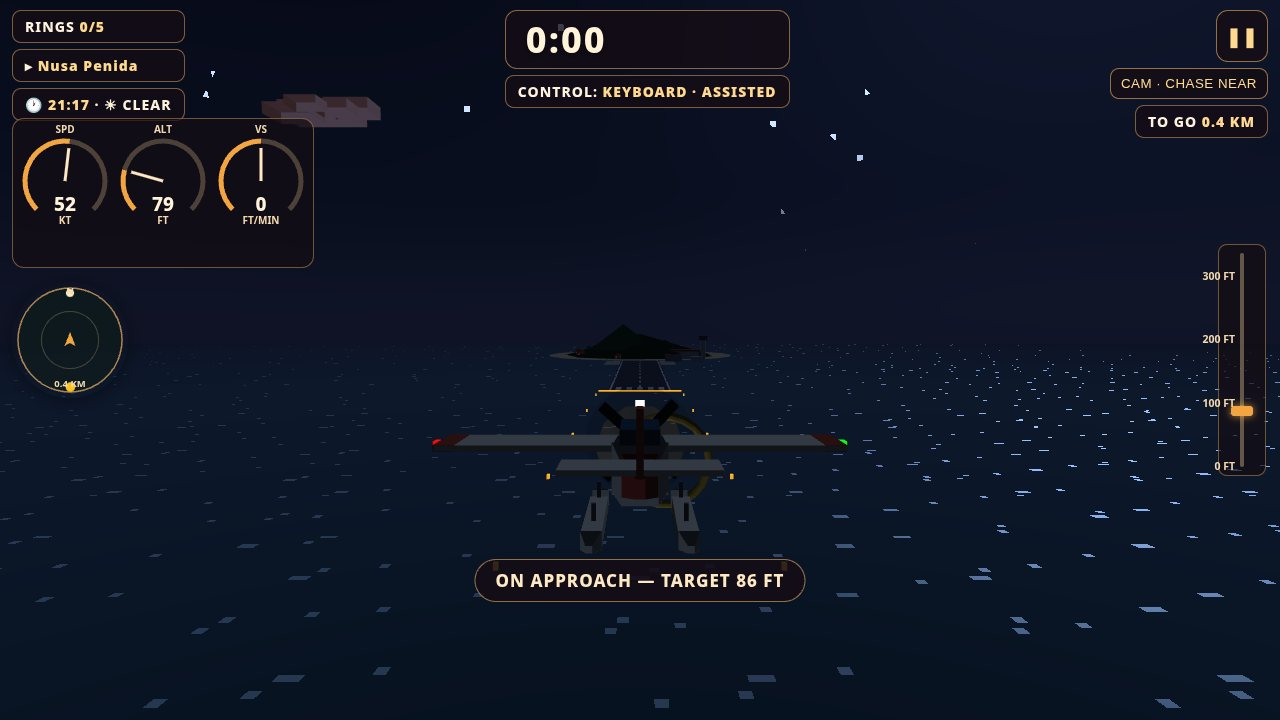
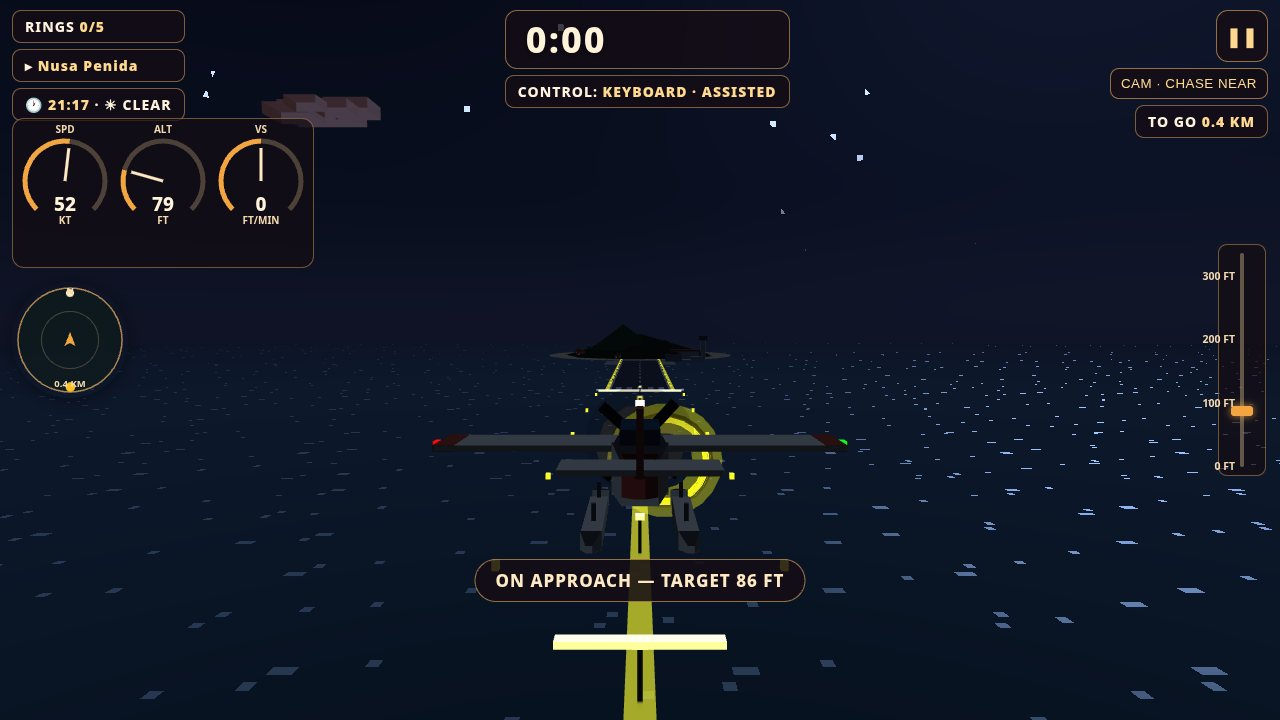
Fix round 2 (gate QA): live board clock, block weather, night visibility
F1: the board clock face is now refreshed as the clock advances on
menus (it was baked into the DOM at render and never moved).
F2: weather is drawn per (day, 4-hour block) instead of per hour, so a
forecast holds for a whole leg; blends happen only at block edges.
F3: night ring glow/core overlays scale with distance, so far rings
stay readable as rings at 1 KM; next ring still brightest and pulsing.
F4: centreline approach light system (elevated heads + crossbar over
the water) and brighter edge/threshold lighting, so the strip reads
as lit from approach distance at night.
F5: ALL RINGS DONE can no longer show unless every ring was threaded
(a water-taxi run now guides for the strip instead).
Screenshots regenerated (night shot shows the lit approach).

diff --git a/game/src/scene3d.js b/game/src/scene3d.js
@@ -6,6 +6,30 @@ import { Builder, M4 } from './engine3d.js';
 import { mulberry32, clamp, lerp } from './util.js';
 
 const CREAM = [0.96, 0.86, 0.64], RED = [0.80, 0.22, 0.15], TEAL = [0.09, 0.26, 0.31];
+
+// How dark the world is right now, 0 (full day) to 1 (deep night), read
+// off the phase's ambient ceiling. The clock's palettes are untouched —
+// this only measures them, and every night treatment (ring glow, strip
+// light spill) scales with it, so dusk fades the lamps in gradually.
+export function darknessOf(env) {
+  if (!env || !env.ambHi) return 0;
+  const lum = 0.299 * env.ambHi[0] + 0.587 * env.ambHi[1] + 0.114 * env.ambHi[2];
+  return clamp((0.42 - lum) / 0.30, 0, 1);
+}
+
+// Night ring overlays grow with distance: a fixed-size halo at 1 KM is a
+// sub-pixel hairline no matter how bright, so the glow (and, more gently,
+// the hot core) scale up with range to hold a minimum screen presence —
+// the course reads as a chain of lights at night. At approach range the
+// scale is 1 and the ring looks exactly as built.
+export function nightGlowM(r, depth) {
+  const s = clamp(depth / 380, 1, 3);
+  return M4.compose(r.x, r.altM, -r.dist, Math.PI / 2, 0, 0, s);
+}
+export function nightCoreM(r, depth) {
+  const s = 1 + (clamp(depth / 380, 1, 3) - 1) * 0.45;
+  return M4.compose(r.x, r.altM, -r.dist, Math.PI / 2, 0, 0, s);
+}
 const SAND = [0.93, 0.78, 0.52], GREEN = [0.24, 0.48, 0.26], GREEN2 = [0.16, 0.38, 0.22];
 const TRUNK = [0.42, 0.30, 0.18], ROCK = [0.45, 0.38, 0.36], GOLD = [1.0, 0.72, 0.18];
 const PAST = [0.35, 0.95, 0.55], DARK = [0.04, 0.07, 0.09], FOAM = [0.98, 0.95, 0.88];
@@ -106,7 +130,19 @@ export function buildRingMeshes(R) {
   // past 1.0 so it pops against sky and fog) — depth order reads at a glance:
   // bright means next, gold means later, green means done.
   const next = new Builder(); next.torus(0, 0, 0, 4.4, 0.46, 22, 10, [1.45, 1.08, 0.38]);
-  return { gold: R.makeMesh(gold), past: R.makeMesh(past), next: R.makeMesh(next) };
+  // Night treatment, drawn only as darkness falls (the scene scales their
+  // alpha with it; at day they are never drawn and the course looks exactly
+  // as it always did). A fat translucent halo torus gives each ring a glow
+  // the fog cannot eat, and hot cores — colours far past 1.0, so the lit
+  // shader's emissive term carries them — replace the dim day shading that
+  // left night rings as small dark-orange circles against a black sky.
+  const glow = new Builder(); glow.torus(0, 0, 0, 4.4, 1.55, 22, 10, [2.0, 1.45, 0.42]);
+  const goldNight = new Builder(); goldNight.torus(0, 0, 0, 4.4, 0.46, 22, 10, [2.15, 1.55, 0.48]);
+  const nextNight = new Builder(); nextNight.torus(0, 0, 0, 4.4, 0.52, 22, 10, [2.9, 2.15, 0.85]);
+  return {
+    gold: R.makeMesh(gold), past: R.makeMesh(past), next: R.makeMesh(next),
+    glow: R.makeMesh(glow), goldNight: R.makeMesh(goldNight), nextNight: R.makeMesh(nextNight),
+  };
 }
 
 // The destination airport: a marked runway deck on flat ground at the
@@ -118,18 +154,50 @@ export function buildRingMeshes(R) {
 export const STRIP_LAYOUT = { width: 27, length: 200, centreZ: 89, topY: 0.02 };
 export function buildStrip(R) {
   const b = new Builder();
-  const DECK = [0.22, 0.23, 0.27], PAINT = [0.95, 0.93, 0.86], LAMP = [1.5, 1.25, 0.7];
+  const DECK = [0.22, 0.23, 0.27], PAINT = [0.95, 0.93, 0.86], LAMP = [2.3, 1.85, 0.9];
   b.box(0, -0.14, 0, 48, 0.28, 232, [0.76, 0.68, 0.52]); // sand apron: the airfield reads from a kilometre out
   b.box(0, -0.26, 0, STRIP_LAYOUT.width, 0.56, STRIP_LAYOUT.length, DECK);
   b.box(-12.6, 0.05, 0, 0.9, 0.07, 196, PAINT);
   b.box(12.6, 0.05, 0, 0.9, 0.07, 196, PAINT);
   for (let i = -2; i <= 2; i++) b.box(i * 4.6, 0.05, 92, 2.4, 0.07, 10, PAINT); // threshold bars
   for (let z = -84; z <= 84; z += 21) b.box(0, 0.05, z, 0.8, 0.07, 9, PAINT); // centreline
-  for (let z = 118; z <= 286; z += 42) { // approach lights on posts
-    b.box(-17, 0.45, z, 0.55, 0.9, 0.55, LAMP);
-    b.box(17, 0.45, z, 0.55, 0.9, 0.55, LAMP);
+  // Edge lights: a lamp every 14 m down both edges, colours well past 1.0
+  // so at night the emissive term makes the strip read as LIT from
+  // approach distance — the first version had only paint and two rows of
+  // small approach posts, and a real night landing saw a plain grey deck.
+  for (let z = -98; z <= 98; z += 14) {
+    b.box(-13.6, 0.32, z, 0.72, 0.5, 0.72, LAMP);
+    b.box(13.6, 0.32, z, 0.72, 0.5, 0.72, LAMP);
   }
-  b.box(0, 0.35, 104, 34, 0.7, 0.8, LAMP); // threshold light bar
+  for (let z = 118; z <= 286; z += 42) { // approach lights on posts
+    b.box(-17, 0.55, z, 0.85, 1.1, 0.85, LAMP);
+    b.box(17, 0.55, z, 0.85, 1.1, 0.85, LAMP);
+  }
+  // Centreline approach light system: a row of elevated heads over the
+  // water running 200 m out from the threshold, ending in a crossbar.
+  // The flat strip all but vanishes at grazing angles on a real night
+  // approach — a line of lights standing 5 m over the sea does not, and
+  // it points straight at the threshold the way a real ALS does.
+  for (let z = 132; z <= 312; z += 30) {
+    b.box(0, 2.5, z, 0.4, 5, 0.4, [0.25, 0.25, 0.28]);
+    b.box(0, 5.1, z, 1.15, 0.6, 1.15, [2.6, 2.2, 1.2]);
+  }
+  b.box(0, 5.1, 312, 13, 0.6, 1.1, [2.6, 2.2, 1.2]); // the crossbar
+  b.box(0, 0.42, 104, 34, 0.85, 0.9, [2.5, 2.3, 1.3]); // threshold light bar
+  return R.makeMesh(b);
+}
+
+// The strip's light spill: translucent glow ribbons hovering over the edge
+// light rows and a halo bar over the threshold. A separate mesh because
+// the scene draws it with alpha scaled by darkness — invisible by day,
+// unmistakable on a night approach.
+export function buildStripGlow(R) {
+  const b = new Builder();
+  const GLOW = [2.4, 1.9, 0.85];
+  b.box(-13.6, 0.62, 0, 1.7, 0.16, 200, GLOW);
+  b.box(13.6, 0.62, 0, 1.7, 0.16, 200, GLOW);
+  b.box(0, 0.8, 104, 36, 0.28, 2.4, [2.4, 2.3, 1.4]); // threshold halo
+  b.box(0, 0.5, 222, 2.4, 0.14, 200, GLOW); // centreline spill under the ALS
   return R.makeMesh(b);
 }
 
@@ -314,7 +382,12 @@ export function createScene(R, assets) {
     drawLane(R, assets, -st.legDist + 150);
     // The strip herself: a deck on the destination shore, threshold facing
     // the plane, growing out of the haze from a kilometre out.
-    R.draw(assets.strip, M4.compose(0, 0, -st.legDist + STRIP_LAYOUT.centreZ, 0, 0, 0));
+    const stripM = M4.compose(0, 0, -st.legDist + STRIP_LAYOUT.centreZ, 0, 0, 0);
+    R.draw(assets.strip, stripM);
+    // Her light spill fades in with darkness: by night the lit edges and
+    // the threshold halo are the approach's main landmark.
+    const dark = darknessOf(st.env);
+    if (assets.stripGlow && dark > 0.02) R.draw(assets.stripGlow, stripM, 0.40 * dark);
     // Airport buildings at the runway's far end (and a twin behind the start).
     R.draw(assets.airport, M4.compose(0, 0, -st.legDist - 14, 0, 0, 0));
     R.draw(assets.airport, M4.compose(0, 0, 128, 0, Math.PI, 0, 0.85));
@@ -325,7 +398,11 @@ export function createScene(R, assets) {
       R.draw(assets.cloud, M4.compose(c.x, c.y, c.z, 0, 0, 0, c.s), 0.88);
     }
     // Rings: the next one bright, the rest gold (fog thins them with range),
-    // green once threaded, ghosts once missed.
+    // green once threaded, ghosts once missed. As darkness falls each live
+    // ring gains its runway-light treatment — a glow halo whose strength
+    // scales with the dark, and a hot emissive core; the NEXT ring burns
+    // brightest and pulses gently, so the course reads at night the way
+    // the strip does. By day (dark = 0) none of this is drawn at all.
     const nextRing = st.rings.find(r => !r.passed && !r.missed);
     for (const r of st.rings) {
       const dz = -r.dist - pz;
@@ -333,8 +410,20 @@ export function createScene(R, assets) {
       const m = M4.compose(r.x, r.altM, -r.dist, Math.PI / 2, 0, 0, r.passed ? 1 : 1 + 0.05 * Math.sin(st.time * 3));
       if (r.passed) R.draw(assets.rings.past, m);
       else if (r.missed) R.draw(assets.rings.gold, m, 0.3);
-      else if (r === nextRing) R.draw(assets.rings.next, m);
-      else R.draw(assets.rings.gold, m);
+      else if (r === nextRing) {
+        R.draw(assets.rings.next, m);
+        if (dark > 0.02) {
+          const pulse = 0.85 + 0.15 * Math.sin(st.time * 3);
+          R.draw(assets.rings.glow, nightGlowM(r, -dz), (0.14 + 0.30 * pulse) * dark);
+          R.draw(assets.rings.nextNight, m, dark);
+        }
+      } else {
+        R.draw(assets.rings.gold, m);
+        if (dark > 0.02) {
+          R.draw(assets.rings.glow, nightGlowM(r, -dz), 0.22 * dark);
+          R.draw(assets.rings.goldNight, nightCoreM(r, -dz), 0.95 * dark);
+        }
+      }
     }
     // Ring-pass flashes: a torus blooming outward where the plane crossed.
     for (const fx of st.fx || []) {

diff --git a/game/src/clock.js b/game/src/clock.js
@@ -2,9 +2,9 @@
 // Time runs compressed — one game hour per GAME_HOUR_SECONDS of real play —
 // and everything the sky does is a smooth function of the game hour: sun and
 // moon position, sky gradient, fog, sea tone, starlight. Weather is a
-// separate deterministic table over (campaign day, hour): the same day at
-// the same hour always brings the same sky, so the morning board's forecast
-// is a promise the flight keeps.
+// separate deterministic table over (campaign day, 4-hour block): a block
+// of hours shares one sky, so a day has weather character that lasts and
+// the morning board's forecast is a promise a whole leg can fly inside.
 import { mulberry32, clamp, lerp } from './util.js';
 
 export const GAME_HOUR_SECONDS = 30; // real seconds per game hour (a day ≈ 12 min)
@@ -145,8 +145,10 @@ export function phaseAt(hour) {
   return out;
 }
 
-// ---- weather: a deterministic table over (day, hour) ----
+// ---- weather: a deterministic table over (day, 4-hour block) ----
 export const WEATHERS = ['clear', 'overcast', 'rain', 'storm'];
+export const BLOCK_HOURS = 4; // one weather per block: 00–04, 04–08, …, 20–24
+export const blockOfHour = hourFloat => Math.floor((((hourFloat % 24) + 24) % 24) / BLOCK_HOURS);
 export const WEATHER_PARAMS = {
   // fogMul thickens the phase fog; windMul scales the season wind; rain is
   // the streak layer's strength; grey desaturates the sky toward gloom.
@@ -156,28 +158,38 @@ export const WEATHER_PARAMS = {
   storm:    { fogMul: 2.20, windMul: 2.2, rain: 1.00, grey: 0.55 },
 };
 
-// The weather of one whole hour of one campaign day. Pure and seeded: the
-// board reads it to print the forecast, the flight reads it to keep it.
-export function weatherAtHour(day, hourInt) {
-  const hi = ((Math.floor(hourInt) % 24) + 24) % 24;
-  const r = mulberry32((Math.floor(day) * 1000003 + hi * 7919 + 17) >>> 0)();
+// The weather of one whole 4-hour block of one campaign day. Pure and
+// seeded from the same hash family as the old hourly table: the board
+// reads it to print the forecast, the flight reads it to keep it.
+export function weatherAtBlock(day, blockIdx) {
+  const bi = ((Math.floor(blockIdx) % 6) + 6) % 6;
+  const r = mulberry32((Math.floor(day) * 1000003 + bi * 7919 + 17) >>> 0)();
   if (r < 0.42) return 'clear';
   if (r < 0.65) return 'overcast';
   if (r < 0.85) return 'rain';
   return 'storm';
 }
 
-// Blended weather parameters at a fractional hour: the current hour's state
-// rules, and the next hour's parameters ease in over its last ten minutes,
-// so fog, wind and rain never pop at an hour boundary. The dominant state
-// (what the HUD names) is the current hour's until the blend passes halfway.
+// The weather in force at an hour: the weather of the block containing it.
+export function weatherAtHour(day, hourFloat) {
+  return weatherAtBlock(day, blockOfHour(hourFloat));
+}
+
+// Blended weather parameters at a fractional hour: the current block's
+// state rules the whole block, and the next block's parameters ease in
+// over the block's last ten minutes only, so fog, wind and rain never pop
+// at a boundary — and never churn mid-flight either. The dominant state
+// (what the HUD names) is the current block's until the blend passes
+// halfway. The last block of the day blends into tomorrow's first block.
 export function weatherBlend(day, hourFloat) {
-  const h0 = Math.floor(hourFloat);
-  const frac = hourFloat - h0;
-  const b = smooth((frac - 5 / 6) * 6);
-  const p0 = WEATHER_PARAMS[weatherAtHour(day, h0)];
-  const p1 = WEATHER_PARAMS[weatherAtHour(day, h0 + 1)];
-  const out = { state: b < 0.5 ? weatherAtHour(day, h0) : weatherAtHour(day, h0 + 1) };
+  const h = ((hourFloat % 24) + 24) % 24;
+  const block = Math.floor(h / BLOCK_HOURS);
+  const minsToEnd = (BLOCK_HOURS - (h - block * BLOCK_HOURS)) * 60;
+  const b = smooth((10 - minsToEnd) / 10);
+  const s0 = weatherAtBlock(day, block);
+  const s1 = block === 5 ? weatherAtBlock(day + 1, 0) : weatherAtBlock(day, block + 1);
+  const p0 = WEATHER_PARAMS[s0], p1 = WEATHER_PARAMS[s1];
+  const out = { state: b < 0.5 ? s0 : s1 };
   for (const f of ['fogMul', 'windMul', 'rain', 'grey']) out[f] = lerp(p0[f], p1[f], b);
   return out;
 }

diff --git a/game/src/main.js b/game/src/main.js
@@ -4,9 +4,9 @@
 // writes into ONE normalized frame, so switching schemes mid-flight changes
 // only who is holding the controls — never the flight itself.
 import { createRenderer } from './engine3d.js';
-import { buildPlane, buildIsland, buildRingMeshes, buildSeaMesh, buildSkyMesh, buildBuoys, buildBlob, buildStrip, buildStreaks, buildAirport, buildCloud, buildLightCone, cloudField, createScene } from './scene3d.js';
+import { buildPlane, buildIsland, buildRingMeshes, buildSeaMesh, buildSkyMesh, buildBuoys, buildBlob, buildStrip, buildStripGlow, buildStreaks, buildAirport, buildCloud, buildLightCone, cloudField, createScene } from './scene3d.js';
 import { createFlight, stepFlight, settleFlight, guidance } from './flight.js';
-import { GAME_HOUR_SECONDS, skyAt, weatherAtHour, fmtGameHour, WEATHER_PARAMS } from './clock.js';
+import { GAME_HOUR_SECONDS, skyAt, weatherAtBlock, blockOfHour, fmtGameHour, WEATHER_PARAMS } from './clock.js';
 import { ISLANDS, HOP_M, ringCourse } from './world.js';
 import { loadSave, storeSave, defaultSave, morningBoard, applyResult, challengeResult, windForSeason, UPGRADE_COST, CHALLENGES, SAVE_KEY } from './state.js';
 import { makeT } from './i18n.js';
@@ -81,7 +81,7 @@ function chipsRow() {
   row.append(
     chip(`${t('day')} ${save.day}`), chip(`${t('island')}: ${ISLANDS[save.islandIdx].name}`),
     chip(`${t('saldo')}: <b>${fmtRp(save.saldo)}</b>`), chip(`✦ ${save.stamps.length}/${ISLANDS.length - 1}`),
-    chip(`🕐 <b>${fmtGameHour(save.clockH)}</b> ${wxIcon(weatherAtHour(save.day, Math.floor(save.clockH)))}`),
+    chip(`🕐 <b class="clockface">${fmtGameHour(save.clockH)}</b> <span class="wxface">${wxIcon(weatherAtBlock(save.day, blockOfHour(save.clockH)))}</span>`),
   );
   const obj = el('div', 'objline', save.islandIdx < ISLANDS.length - 1
     ? t('next_obj', { island: dest.name }) : t('all_stamps'));
@@ -610,7 +610,8 @@ function updateHud() {
       : g.dAltFT > 0 ? t('guide_ring_up', { n: g.dAltFT }) : t('guide_ring_down', { n: -g.dAltFT });
     const line = g.centred ? t('guide_centred') : t('guide_line', { n: (g.dX > 0 ? '+' : '') + g.dX });
     guide.textContent = `${alt} · ${line}`;
-  } else guide.textContent = t('guide_none');
+  } else if (g.mode === 'done') guide.textContent = t('guide_none');
+  else guide.textContent = t('guide_head');
   // The overspeed warning exists for the approach, where speed is a landing
   // problem — at ring altitude, full throttle is the correct answer and the
   // warning would only cry wolf.
@@ -717,6 +718,7 @@ if (R) {
     sky: buildSkyMesh(R),
     buoys: buildBuoys(R),
     strip: buildStrip(R),
+    stripGlow: buildStripGlow(R),
     airport: buildAirport(R),
     cloud: buildCloud(R),
     cone: buildLightCone(R),
@@ -787,6 +789,20 @@ function stepOnce(dt) {
   if (!g.tooFast) warned = false;
   if (f.done) finishFlight();
 }
+// The menu clock chip is rendered once per screen, so its text must be
+// refreshed as the clock runs — the value advanced all along, but the
+// board's baked-in "06:30" never moved (the gate watched it for 65 s).
+// Refresh every live clock face whenever the displayed minute changes.
+let lastClockFace = '';
+function refreshClockFaces() {
+  const face = fmtGameHour(save.clockH);
+  if (face === lastClockFace) return;
+  lastClockFace = face;
+  const icon = wxIcon(weatherAtBlock(save.day, blockOfHour(save.clockH)));
+  for (const e of document.querySelectorAll('.clockface')) e.textContent = face;
+  for (const e of document.querySelectorAll('.wxface')) e.textContent = icon;
+}
+
 // The game clock: one game hour per GAME_HOUR_SECONDS of unpaused play.
 // It runs on menus too — the title's sky lives — and the environment is
 // recomputed from it every frame, so light and weather never pop.
@@ -797,6 +813,7 @@ function advanceClock(dt) {
   if (Math.floor(save.clockH) !== prevHour) storeSave(store, save);
   envNow = skyAt(save.day, save.clockH, flightCtx ? flightCtx.wxPin : null);
   if (flightCtx) flightCtx.weather = envNow.state;
+  refreshClockFaces();
 }
 function loop(ts) {
   requestAnimationFrame(loop);

diff --git a/game/src/state.js b/game/src/state.js
@@ -1,7 +1,7 @@
 // Campaign state and its localStorage save. Pure transitions live here so the
 // logic suite can drive them; the DOM layer only renders what this returns.
 import { ISLANDS, HOP_M, CUSTOMERS, ringCourse, ringCountFor } from './world.js';
-import { weatherAtHour } from './clock.js';
+import { weatherAtBlock, blockOfHour } from './clock.js';
 import { mulberry32 } from './util.js';
 
 export const SAVE_KEY = 'senja-hopper-save-v9';
@@ -75,14 +75,15 @@ export function morningBoard(save, daySeed) {
   }
   // Departures spread across the day — dawn, mid-morning, midday, afternoon,
   // senja, night — three slots a third of the day apart, rotated by the day
-  // seed. Each ticket's weather is the clock table's word for its departure
-  // hour: the forecast printed on the board is the sky the flight will get.
+  // seed. Each ticket's weather is the clock table's word for the 4-hour
+  // block containing its departure hour: the forecast printed on the board
+  // is the sky the flight will get, and keep getting for the whole block.
   const SLOTS = [5.75, 8.25, 10.75, 13.25, 15.75, 18.25, 20.75, 23.0];
   const wrnd = mulberry32(daySeed * 104729 + 7);
   const start = Math.floor(wrnd() * SLOTS.length);
   tickets.forEach((tk, i) => {
     tk.depHour = SLOTS[(start + i * 3) % SLOTS.length];
-    tk.weather = weatherAtHour(daySeed, Math.floor(tk.depHour));
+    tk.weather = weatherAtBlock(daySeed, blockOfHour(tk.depHour));
   });
   return tickets;
 }

diff --git a/game/src/i18n.js b/game/src/i18n.js
@@ -47,6 +47,7 @@ export const STRINGS = {
     hud_rings: 'RINGS', hud_to_go: 'TO GO', hud_timer: 'TIME',
     guide_ring_up: 'RING ▲ {n} FT', guide_ring_down: 'RING ▼ {n} FT', guide_ring_level: 'RING — ON LINE',
     guide_line: 'LINE {n}', guide_centred: 'CENTRED', guide_none: 'ALL RINGS DONE',
+    guide_head: 'HEAD FOR THE STRIP',
     guide_descend: 'DESCEND', guide_approach: 'ON APPROACH — TARGET {n} FT', guide_flare: 'FLARE',
     warn_fast: 'TOO FAST — EASE OFF',
     pause_title: 'PAUSED',
@@ -111,6 +112,7 @@ export const STRINGS = {
     hud_rings: 'CINCIN', hud_to_go: 'SISA', hud_timer: 'WAKTU',
     guide_ring_up: 'CINCIN ▲ {n} FT', guide_ring_down: 'CINCIN ▼ {n} FT', guide_ring_level: 'CINCIN — SEJAJAR',
     guide_line: 'GARIS {n}', guide_centred: 'TEPAT TENGAH', guide_none: 'SEMUA CINCIN SELESAI',
+    guide_head: 'MENUJU LANDASAN',
     guide_descend: 'TURUN', guide_approach: 'PENDEKATAN — TARGET {n} FT', guide_flare: 'TAHAN',
     warn_fast: 'TERLALU CEPAT — KURANGI',
     pause_title: 'JEDA',

diff --git a/game/src/flight.js b/game/src/flight.js
@@ -180,8 +180,14 @@ export function guidance(s) {
     out.dAltFT = Math.round((next.altM - s.alt) / FT);
     out.dX = Math.round(next.x - s.x);
     out.centred = Math.abs(next.x - s.x) <= RING_R;
+  } else if (s.rings.length > 0 && s.ringsHit >= s.rings.length) {
+    out.mode = 'done'; // every ring threaded — and ONLY then
   } else {
-    out.mode = 'done';
+    // No live ring ahead, but not all collected: the rest were missed (or
+    // the course has none). The old code fell through to 'done' here, so a
+    // water taxi that rolled past every ring plane unread announced
+    // "ALL RINGS DONE" at 0/5. Head for the strip instead.
+    out.mode = 'none';
   }
   out.tooFast = s.speed > 86 * KT;
   return out;
